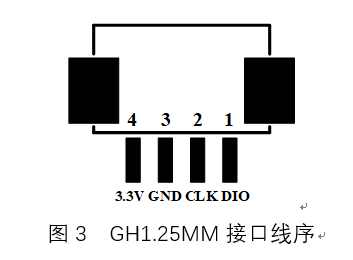
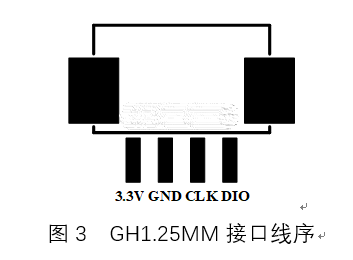
FIX: fix swd 4pin seq . add url

Changed region(s): [[0.4986, 0.4, 0.6544, 0.5231], [0.3428, 0.4308, 0.4986, 0.5231]]

diff --git a/source/abstract.rst b/source/abstract.rst
@@ -7,3 +7,5 @@ Abstract
 如无异议，即日起应当按文档执行，违反造成工作失误的，应当接受处罚。
 
 本文档使用rst格式编写，并使用git进行版本控制的，整替是一个sphinx工程中，托管到网站（例如readthedoc.io），方便整理，汇编。
+
+文档网址： https://ironmz-standard.readthedocs.io/
